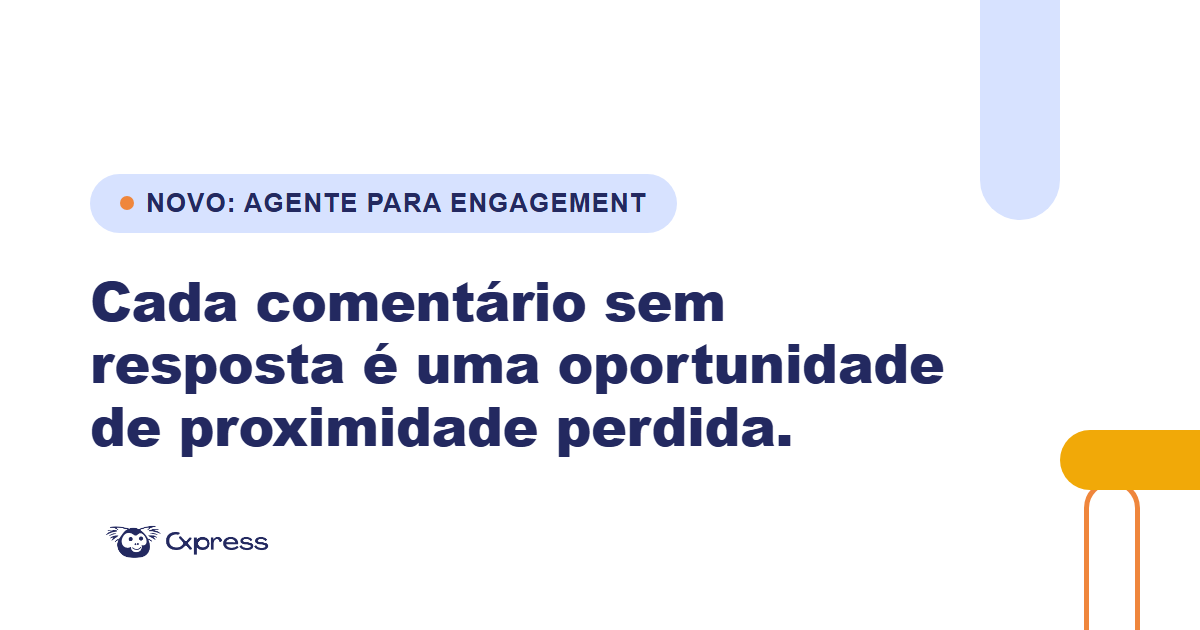
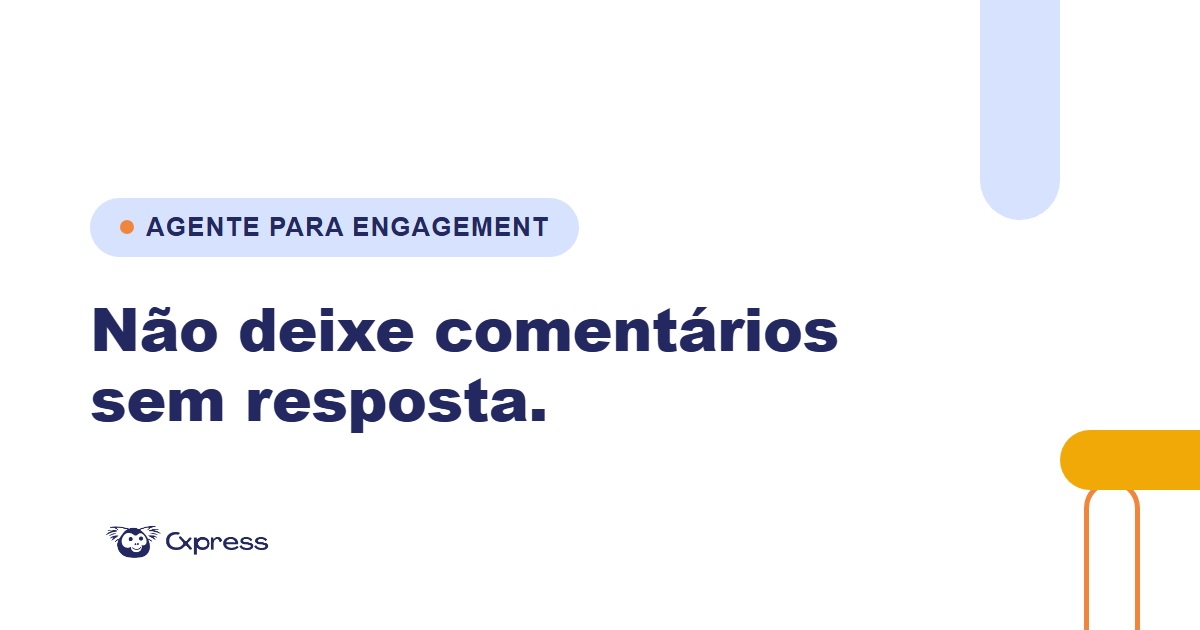
Atualizar titulo e subtitulo do hero na LP agente-concierge-pt (#116)

Changed region(s): [[0.0617, 0.4524, 0.8017, 0.7238], [0.0617, 0.2714, 0.5858, 0.4222]]

diff --git a/landing-pages/cxpress/agente-concierge-pt/index.html b/landing-pages/cxpress/agente-concierge-pt/index.html
@@ -249,13 +249,6 @@ j=d.createElement(s),dl=l!='dataLayer'?'&l='+l:'';j.async=true;j.src=
     font-weight:800;
     max-width:15ch;
   }
-  .hero h1 em{
-    font-style:normal;
-    font-family:var(--font-accent);
-    font-weight:600;
-    font-style:italic;
-    color:var(--primary);
-  }
   .hero__sub{
     font-size:clamp(1.05rem, 1.6vw, 1.25rem);
     font-weight:400;
@@ -521,8 +514,8 @@ height="0" width="0" style="display:none;visibility:hidden"></iframe></noscript>
     <div class="container hero__inner">
       <div class="hero-content">
         <span class="eyebrow"><span class="eyebrow-dot" aria-hidden="true"></span>Agente para Engagement</span>
-        <h1 id="hero-title">Cada comentário sem resposta é uma <em>oportunidade de proximidade</em> perdida.</h1>
-        <p class="hero__sub">Conheça o Agente Concierge: o Agente para Engagement que ajuda a sua marca a responder, conversar e interagir nas redes sociais, com Inteligência Artificial e linguagem natural.</p>
+        <h1 id="hero-title">Não deixe comentários sem resposta.</h1>
+        <p class="hero__sub">Conheça o Agente Concierge, o Agente para Engagement que ajuda a sua marca a responder e interagir nas redes sociais com Inteligência Artificial.</p>
         <a class="btn btn-primary" href="#cta-final">
           Pedir Demonstração
           <svg class="btn-icon" viewBox="0 0 24 24" fill="none" aria-hidden="true"><path d="M5 12h14M13 6l6 6-6 6" stroke="currentColor" stroke-width="2" stroke-linecap="round" stroke-linejoin="round"/></svg>
